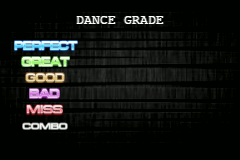
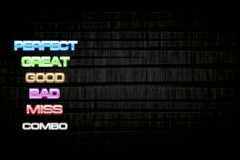
Adding level string to DanceGradeScene

Changed region(s): [[0.2917, 0.0938, 0.7, 0.1562]]

diff --git a/src/scenes/DanceGradeScene.cpp b/src/scenes/DanceGradeScene.cpp
@@ -25,7 +25,7 @@ extern "C" {
 const u32 ID_MAIN_BACKGROUND = 1;
 const u32 BANK_BACKGROUND_TILES = 0;
 const u32 BANK_BACKGROUND_MAP = 16;
-const u32 TEXT_COLOR = 0x7FFF;
+const u32 TEXT_COLOR = 0b111111111111101;
 const u32 TEXT_ROW = 17;
 const u32 SCORE_DIGITS = 8;
 
@@ -41,12 +41,18 @@ DanceGradeScene::DanceGradeScene(std::shared_ptr<GBAEngine> engine,
                                  const GBFS_FILE* fs,
                                  std::unique_ptr<Evaluation> evaluation,
                                  std::unique_ptr<Evaluation> remoteEvaluation,
+                                 std::string songTitle,
+                                 std::string songArtist,
+                                 std::string songLevel,
                                  bool differentCharts,
                                  bool isLastSong)
     : Scene(engine) {
   this->fs = fs;
   this->evaluation = std::move(evaluation);
   this->remoteEvaluation = std::move(remoteEvaluation);
+  this->songTitle = songTitle;
+  this->songArtist = songArtist;
+  this->songLevel = songLevel;
   this->differentCharts = differentCharts;
   this->isLastSong = isLastSong;
 }
@@ -89,6 +95,12 @@ void DanceGradeScene::load() {
   setUpSpritesPalette();
   setUpBackground();
   printScore();
+
+  SCENE_write(songTitle, 1);
+  TextStream::instance().setText(
+      "- " + songArtist + " -", 2,
+      TEXT_MIDDLE_COL - (songArtist.length() + 4) / 2);
+  SCENE_write(songLevel, 3);
 
   bool has4Digits = evaluation->needs4Digits() ||
                     (isVs() && remoteEvaluation->needs4Digits());

diff --git a/src/scenes/SongScene.cpp b/src/scenes/SongScene.cpp
@@ -900,7 +900,8 @@ void SongScene::finishAndGoToEvaluation() {
       new DanceGradeScene(
           engine, fs, std::move(evaluation),
           $isVs ? scores[syncer->getRemotePlayerId()]->evaluate() : NULL,
-          $isVsDifferentLevels, isLastSong),
+          std::string(song->title), std::string(song->artist),
+          buildLevelString(), $isVsDifferentLevels, isLastSong),
       new PixelTransitionEffect());
 }
 
@@ -958,8 +959,8 @@ void SongScene::continueDeathMix() {
       SAVEFILE_write8(SRAM->deathMixProgress.grades[chart->difficulty], grade);
 
     engine->transitionIntoScene(
-        new DanceGradeScene(engine, fs, std::move(evaluation), NULL, false,
-                            true),
+        new DanceGradeScene(engine, fs, std::move(evaluation), NULL, "",
+                            "DeathMix", "", false, true),
         new PixelTransitionEffect());
   }
 }
@@ -1343,6 +1344,12 @@ bool SongScene::seek(u32 msecs) {
     return false;
   }
   return true;
+}
+
+std::string SongScene::buildLevelString() {
+  return $isVsDifferentLevels
+             ? chart->getLevelString() + " / " + remoteChart->getLevelString()
+             : chart->getLevelString();
 }
 
 void SongScene::unload() {

diff --git a/src/scenes/DanceGradeScene.h b/src/scenes/DanceGradeScene.h
@@ -25,6 +25,9 @@ class DanceGradeScene : public Scene {
                   const GBFS_FILE* fs,
                   std::unique_ptr<Evaluation> evaluation,
                   std::unique_ptr<Evaluation> remoteEvaluation,
+                  std::string songTitle,
+                  std::string songArtist,
+                  std::string songLevel,
                   bool differentCharts,
                   bool isLastSong);
 
@@ -42,6 +45,9 @@ class DanceGradeScene : public Scene {
 
   std::unique_ptr<Evaluation> evaluation;
   std::unique_ptr<Evaluation> remoteEvaluation;
+  std::string songTitle;
+  std::string songArtist;
+  std::string songLevel;
   std::unique_ptr<Grade> grade;
   std::array<std::unique_ptr<Total>, FEEDBACK_TYPES_TOTAL> totals;
   std::unique_ptr<Total> maxComboTotal;

diff --git a/src/gameplay/models/Chart.h b/src/gameplay/models/Chart.h
@@ -3,6 +3,7 @@
 
 #include <libgba-sprite-engine/gba/tonc_core.h>
 
+#include <string>
 #include "Event.h"
 
 enum DifficultyLevel { NORMAL, HARD, CRAZY, NUMERIC };
@@ -29,6 +30,23 @@ typedef struct {
                   // type == ChartType::DOUBLE_COOP_CHART
   int customOffset;
   u8 levelIndex;
+
+  std::string getLevelString() {
+    if (difficulty == DifficultyLevel::NORMAL)
+      return "NM";
+
+    if (difficulty == DifficultyLevel::HARD)
+      return "HD";
+
+    if (difficulty == DifficultyLevel::CRAZY)
+      return "CZ";
+
+    if (type == ChartType::DOUBLE_COOP_CHART)
+      return ";)";
+
+    return (type == ChartType::SINGLE_CHART ? "s" : "d") +
+           (level == 99 ? "??" : std::to_string(level));
+  }
 } Chart;
 
 #endif  // CHART_H

diff --git a/src/scenes/SongScene.h b/src/scenes/SongScene.h
@@ -176,6 +176,8 @@ class SongScene : public Scene {
   void endSeek(u32 previousMultiplier);
   bool seek(u32 msecs);
 
+  std::string buildLevelString();
+
   void unload();
 };
 
